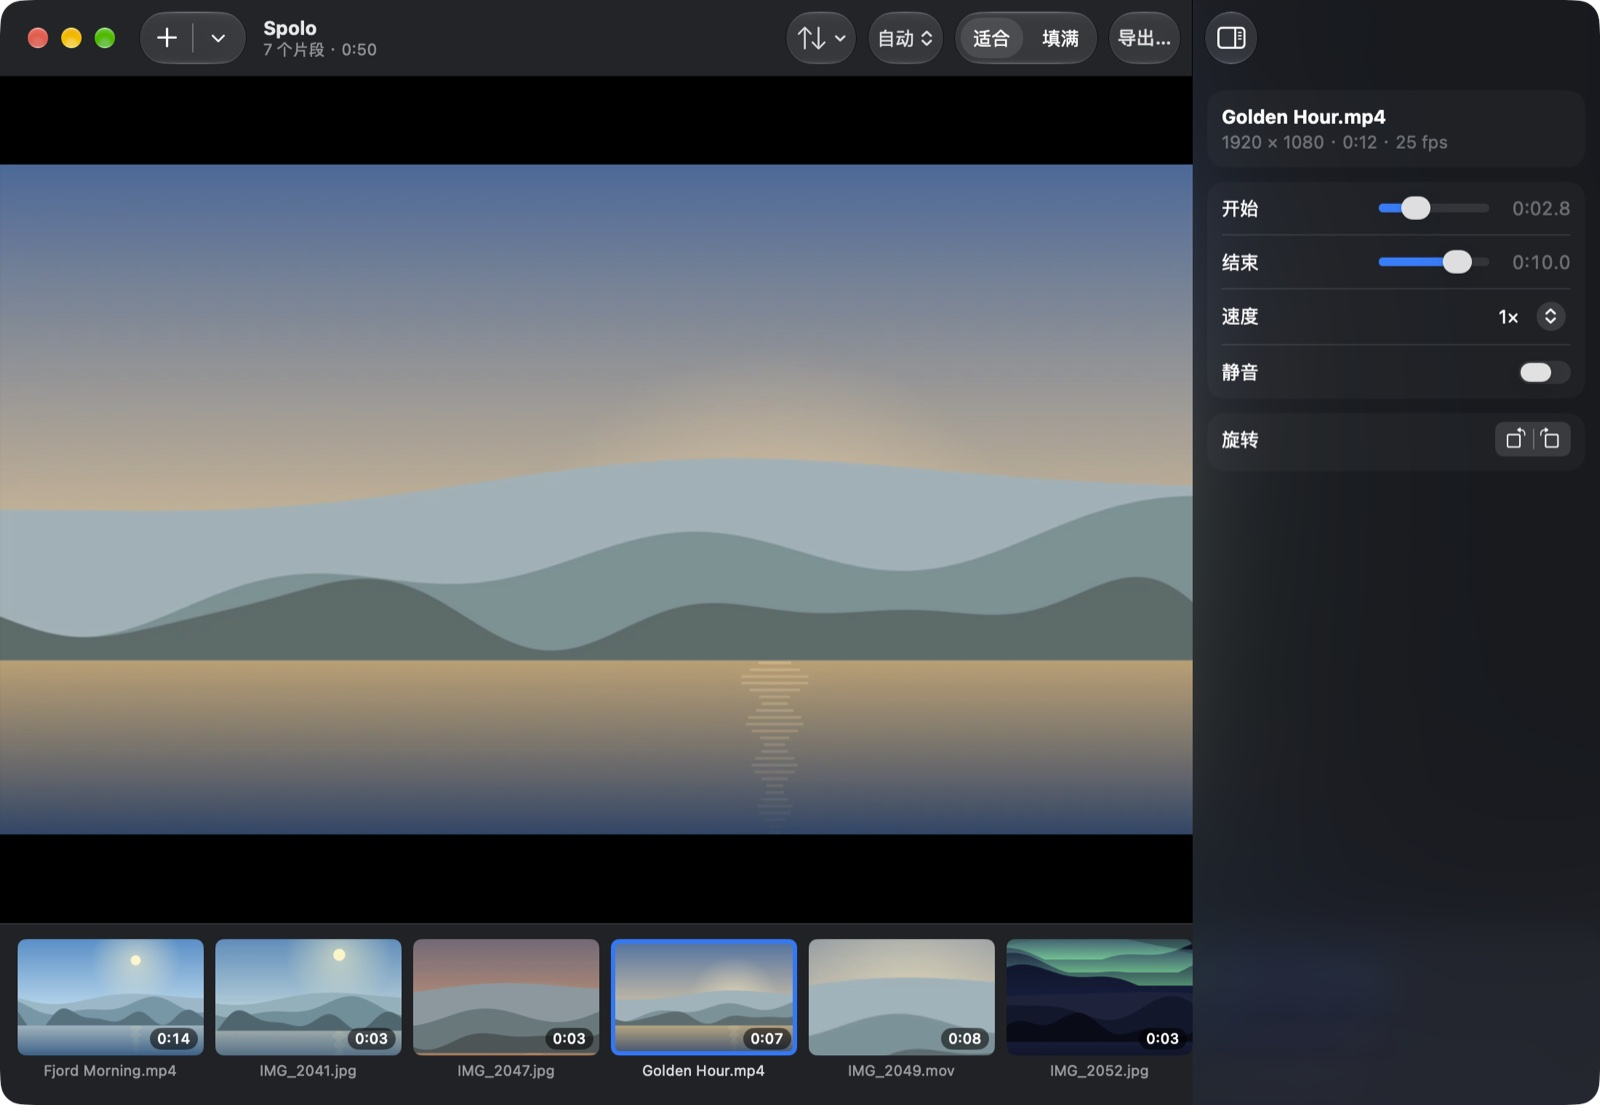
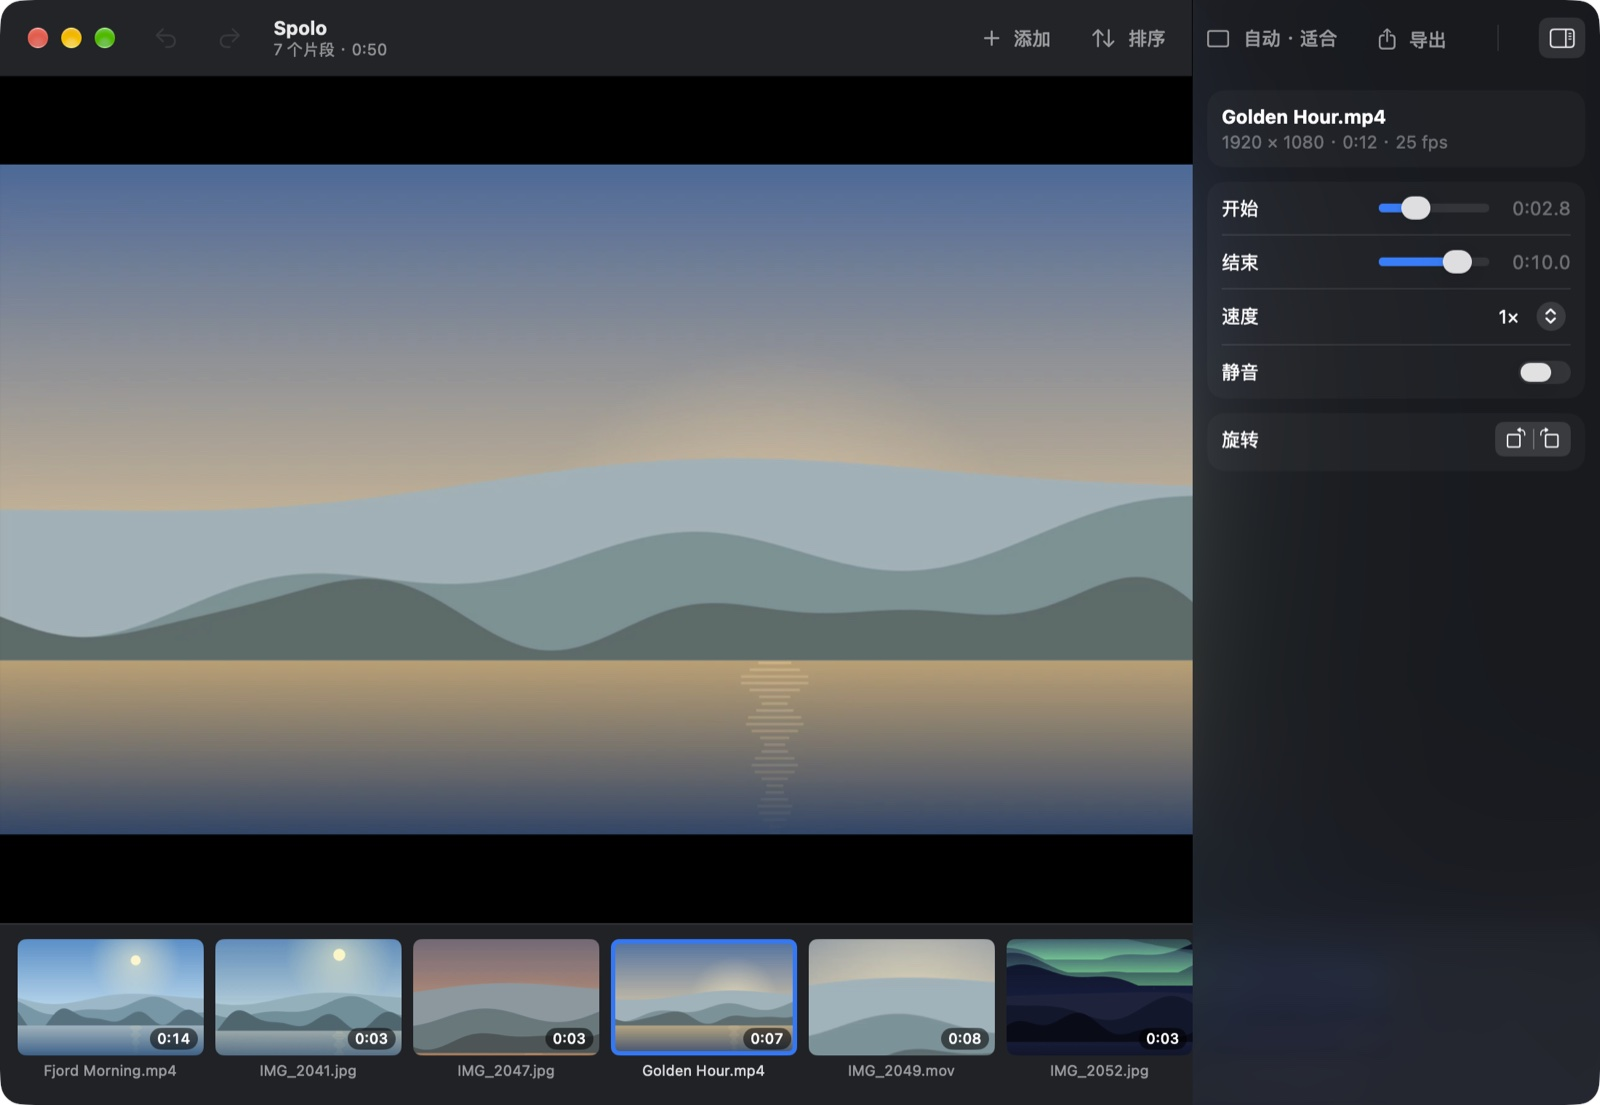
Spolo 1.0.1: new screenshots on the website, and files opened at launch show up
Files opened with Spolo while it starts were added during the window's first
update and the main view stayed on the empty screen; they are now added once
the window has appeared.

diff --git a/Sources/SpoloApp/SpoloApp.swift b/Sources/SpoloApp/SpoloApp.swift
@@ -10,7 +10,8 @@ struct SpoloApp: App {
         Window(Text(verbatim: "Spolo"), id: "main") {
             ContentView(project: project, exporter: exporter)
                 .onAppear {
-                    delegate.onOpen = { urls in project.add(urls) }
+                    // Files opened at launch arrive while the window is still appearing; add them once it has.
+                    delegate.onOpen = { urls in Task { @MainActor in project.add(urls) } }
                     delegate.onQuit = { project.save() }
                 }
         }

diff --git a/website/generate.py b/website/generate.py
@@ -59,7 +59,7 @@ COPY = {
         "start": [
             "Drag photos and videos onto the Spolo window, or choose File › Add… or Add from Photos….",
             "Drag the clips into order, or use Sort By in the toolbar. Click a clip to trim it, change its speed, mute or rotate it in the inspector.",
-            "Pick a shape and Fit or Fill in the toolbar, then choose File › Export….",
+            "Pick a shape and Fit or Fill with the frame button in the toolbar (it reads Auto · Fit at first), then click Export.",
         ],
         "faq": [
             ("Which formats can Spolo open?", "Anything macOS can play or show: MOV, MP4 and M4V video in H.264, HEVC or ProRes, and JPEG, PNG, HEIC, TIFF, WebP, AVIF and RAW photos. macOS can't read MKV, WebM, AVI and a few other formats; Spolo shows them greyed out rather than leaving them out silently."),
@@ -67,6 +67,7 @@ COPY = {
             ("What do Original, High and Smaller File mean?", "Original keeps the full size, up to 4K. High is up to 1080p in H.264, which plays everywhere. Smaller File is up to 1080p in HEVC at a lower bit rate."),
             ("What happens to HDR video?", "Spolo exports in standard dynamic range, so HDR and SDR clips look the same side by side. macOS tone-maps the HDR clips."),
             ("Does Spolo copy my files?", "No. It remembers where your clips are, so they're there when you open Spolo again, but it doesn't copy them. Items added from Photos are the exception: they have no file of their own, so Spolo keeps a copy in its own folder until they're no longer among your clips."),
+            ("How do I start again with an empty window?", "Choose File › Start Over (⌘N). Every change can be undone with the arrow beside the title, Start Over included."),
             ("Is there a limit or a watermark?", "No. There's no limit on the number of clips or their length, and no watermark."),
             ("How do I update?", "The Mac App Store version updates through the App Store. In the downloaded version, choose Help › Check for a New Version…; it opens this website in your browser, because Spolo itself never goes online."),
             ("How do I uninstall it?", "Quit Spolo and drag it from Applications to the Bin. Its last session and any items added from Photos are in ~/Library/Containers/com.feiyangtang.Spolo, which you can delete too."),
@@ -87,7 +88,10 @@ COPY = {
             "You are responsible for having the rights to the photos and videos you merge. Mac App Store downloads are also covered by Apple's standard licence agreement.",
         ],
         "notes_title": "Release notes",
-        "notes": [(f"Version {VERSION}", "22 October 2026", "First release: merge photos and videos into one MP4 or MOV; trim, speed, mute and rotate; five shapes with fit or fill; fast export without re-encoding; four languages.")],
+        "notes": [
+            ("Version 1.0.1", "22 October 2026", "A cleaner window: Undo and Redo beside the title, labelled toolbar buttons, and Start Over to go back to an empty window. With no clip selected, the inspector shows the merged video. Files opened while Spolo starts now appear straight away."),
+            ("Version 1.0.0", "22 October 2026", "First release: merge photos and videos into one MP4 or MOV; trim, speed, mute and rotate; five shapes with fit or fill; fast export without re-encoding; four languages."),
+        ],
         "contact_title": "Contact",
         "contact": "Write to <a href=\"mailto:support@tang-spark.no\">support@tang-spark.no</a>. It helps to include your macOS version and the Spolo version (Spolo menu › About Spolo).",
         "footer_support": "Support & privacy",
@@ -123,7 +127,7 @@ COPY = {
         "start": [
             "把照片和视频拖到 Spolo 窗口里，或者选择“文件 › 添加…”或“从‘照片’添加…”。",
             "拖动片段排好顺序，或用工具栏里的“排序方式”。点按一段片段，在检查器里修剪、调速、静音或旋转。",
-            "在工具栏里选好画面比例和“适合”或“填满”，然后选择“文件 › 导出…”。",
+            "用工具栏里的画面按钮（一开始显示“自动 · 适合”）选好比例和“适合”或“填满”，然后点“导出”。",
         ],
         "faq": [
             ("Spolo 能打开哪些格式？", "macOS 能播放或显示的都可以：H.264、HEVC、ProRes 编码的 MOV、MP4、M4V 视频，以及 JPEG、PNG、HEIC、TIFF、WebP、AVIF 和 RAW 照片。MKV、WebM、AVI 等少数格式 macOS 读不了；Spolo 会把它们灰显出来，而不是悄悄丢掉。"),
@@ -131,6 +135,7 @@ COPY = {
             ("原画质、高、较小文件有什么区别？", "原画质保持原始尺寸，最高 4K。“高”最高 1080p、H.264 编码，到处都能播放。“较小文件”最高 1080p、HEVC 编码，码率更低。"),
             ("HDR 视频会怎样？", "Spolo 导出标准动态范围的视频，所以 HDR 和普通视频放在一起看起来一致。HDR 片段由 macOS 做色调映射。"),
             ("Spolo 会复制我的文件吗？", "不会。它只记住片段在哪里，下次打开时片段还在，但不会复制文件。从“照片”里添加的项目例外：它们没有自己的文件，所以 Spolo 会在自己的文件夹里保留一份副本，直到它们不再在片段里。"),
+            ("怎么清空，重新开始？", "选择“文件 › 从头开始”（⌘N）。每一步都可以用标题旁的箭头撤销，“从头开始”也一样。"),
             ("有数量限制或水印吗？", "没有。片段数量和时长都不限，也没有水印。"),
             ("怎么更新？", "Mac App Store 版本通过 App Store 更新。下载版请选择“帮助 › 检查新版本…”，它会在浏览器中打开这个网站，因为 Spolo 自己从不联网。"),
             ("怎么卸载？", "退出 Spolo，把它从“应用程序”拖到废纸篓。它的上次会话和从“照片”添加的项目在 ~/Library/Containers/com.feiyangtang.Spolo，也可以一起删除。"),
@@ -151,7 +156,10 @@ COPY = {
             "你需要拥有所合并照片和视频的相应权利。从 Mac App Store 下载的版本同时适用 Apple 的标准许可协议。",
         ],
         "notes_title": "更新说明",
-        "notes": [(f"版本 {VERSION}", "2026 年 10 月 22 日", "首次发布：把照片和视频合成一个 MP4 或 MOV；修剪、调速、静音、旋转；五种画面比例，适合或填满；片段一致时快速导出、不重新编码；四种语言。")],
+        "notes": [
+            ("版本 1.0.1", "2026 年 10 月 22 日", "更清爽的窗口：标题旁有撤销和重做，工具栏按钮带文字，“从头开始”可以回到空白窗口。没有选中片段时，检查器显示整个视频的设置。启动时打开的文件会马上显示出来。"),
+            ("版本 1.0.0", "2026 年 10 月 22 日", "首次发布：把照片和视频合成一个 MP4 或 MOV；修剪、调速、静音、旋转；五种画面比例，适合或填满；片段一致时快速导出、不重新编码；四种语言。"),
+        ],
         "contact_title": "联系",
         "contact": "请写信至 <a href=\"mailto:support@tang-spark.no\">support@tang-spark.no</a>。附上 macOS 版本和 Spolo 版本（Spolo 菜单 › 关于 Spolo）会很有帮助。",
         "footer_support": "支持与隐私",
@@ -187,7 +195,7 @@ COPY = {
         "start": [
             "把照片和影片拖到 Spolo 視窗裡，或選擇「檔案 › 加入…」或「從『照片』加入…」。",
             "拖移片段排好順序，或使用工具列中的「排序方式」。按一下片段，在檢閱器中修剪、調速、靜音或旋轉。",
-            "在工具列中選好畫面比例和「符合」或「填滿」，然後選擇「檔案 › 匯出…」。",
+            "用工具列中的畫面按鈕（一開始顯示「自動 · 符合」）選好比例和「符合」或「填滿」，然後按「匯出」。",
         ],
         "faq": [
             ("Spolo 能打開哪些格式？", "macOS 能播放或顯示的都可以：H.264、HEVC、ProRes 編碼的 MOV、MP4、M4V 影片，以及 JPEG、PNG、HEIC、TIFF、WebP、AVIF 和 RAW 照片。MKV、WebM、AVI 等少數格式 macOS 讀不了；Spolo 會把它們以灰色顯示，而不是悄悄略過。"),
@@ -195,6 +203,7 @@ COPY = {
             ("原始畫質、高、較小檔案有什麼不同？", "原始畫質保持原始尺寸，最高 4K。「高」最高 1080p、H.264 編碼，到處都能播放。「較小檔案」最高 1080p、HEVC 編碼，位元率更低。"),
             ("HDR 影片會怎樣？", "Spolo 匯出標準動態範圍的影片，所以 HDR 和一般影片放在一起看起來一致。HDR 片段由 macOS 做色調對應。"),
             ("Spolo 會複製我的檔案嗎？", "不會。它只記住片段在哪裡，下次打開時片段還在，但不會複製檔案。從「照片」加入的項目例外：它們沒有自己的檔案，所以 Spolo 會在自己的檔案夾中保留一份副本，直到它們不再在片段中。"),
+            ("怎麼清空，重新開始？", "選擇「檔案 › 從頭開始」（⌘N）。每一步都可以用標題旁的箭頭還原，「從頭開始」也一樣。"),
             ("有數量限制或浮水印嗎？", "沒有。片段數量和長度都不限，也沒有浮水印。"),
             ("怎麼更新？", "Mac App Store 版本透過 App Store 更新。下載版請選擇「輔助說明 › 檢查新版本…」，它會在瀏覽器中打開這個網站，因為 Spolo 本身從不連網。"),
             ("怎麼解除安裝？", "結束 Spolo，把它從「應用程式」拖到垃圾桶。它的上次工作階段和從「照片」加入的項目在 ~/Library/Containers/com.feiyangtang.Spolo，也可以一併刪除。"),
@@ -215,7 +224,10 @@ COPY = {
             "你需要擁有所合併照片和影片的相應權利。從 Mac App Store 下載的版本同時適用 Apple 的標準授權協議。",
         ],
         "notes_title": "版本說明",
-        "notes": [(f"版本 {VERSION}", "2026 年 10 月 22 日", "首次發佈：把照片和影片合成一個 MP4 或 MOV；修剪、調速、靜音、旋轉；五種畫面比例，符合或填滿；片段一致時快速匯出、不重新編碼；四種語言。")],
+        "notes": [
+            ("版本 1.0.1", "2026 年 10 月 22 日", "更清爽的視窗：標題旁有還原和重做，工具列按鈕附上文字，「從頭開始」可以回到空白視窗。沒有選取片段時，檢閱器顯示整部影片的設定。啟動時打開的檔案會馬上顯示。"),
+            ("版本 1.0.0", "2026 年 10 月 22 日", "首次發佈：把照片和影片合成一個 MP4 或 MOV；修剪、調速、靜音、旋轉；五種畫面比例，符合或填滿；片段一致時快速匯出、不重新編碼；四種語言。"),
+        ],
         "contact_title": "聯絡",
         "contact": "請寫信至 <a href=\"mailto:support@tang-spark.no\">support@tang-spark.no</a>。附上 macOS 版本和 Spolo 版本（Spolo 選單 › 關於 Spolo）會很有幫助。",
         "footer_support": "支援與隱私",

diff --git a/CHANGELOG.md b/CHANGELOG.md
@@ -2,12 +2,15 @@
 
 All notable changes to Spolo are listed here. Versions follow [Semantic Versioning](https://semver.org).
 
-## [Unreleased]
+## [1.0.1] - 2026-10-22
+
+A cleaner window, with undo and a way back always in reach.
 
 - A quieter toolbar without capsules: Undo and Redo beside the title, then Add, Sort, the frame (for example “16:9 · Fill”) and Export as labelled buttons, and the inspector toggle.
 - Start Over (⌘N, or Remove All in the filmstrip's menu) goes back to the empty window; Undo brings the clips back. Esc clears the selection.
 - No Settings window: the export sheet remembers the last format and quality, and everything else is in the window.
 - The empty window's Add from Photos… button is no longer cut off.
+- Files opened with Spolo while it starts now appear in the window straight away.
 - With no clip selected, the inspector shows the merged video: shape, scaling, clip count, length and size.
 - A + tile at the end of the filmstrip; Delete removes and ⌘A selects all clips once the filmstrip is clicked.
 - Development builds no longer leave extra copies of Spolo for Spotlight, Launchpad and Open With to find.
